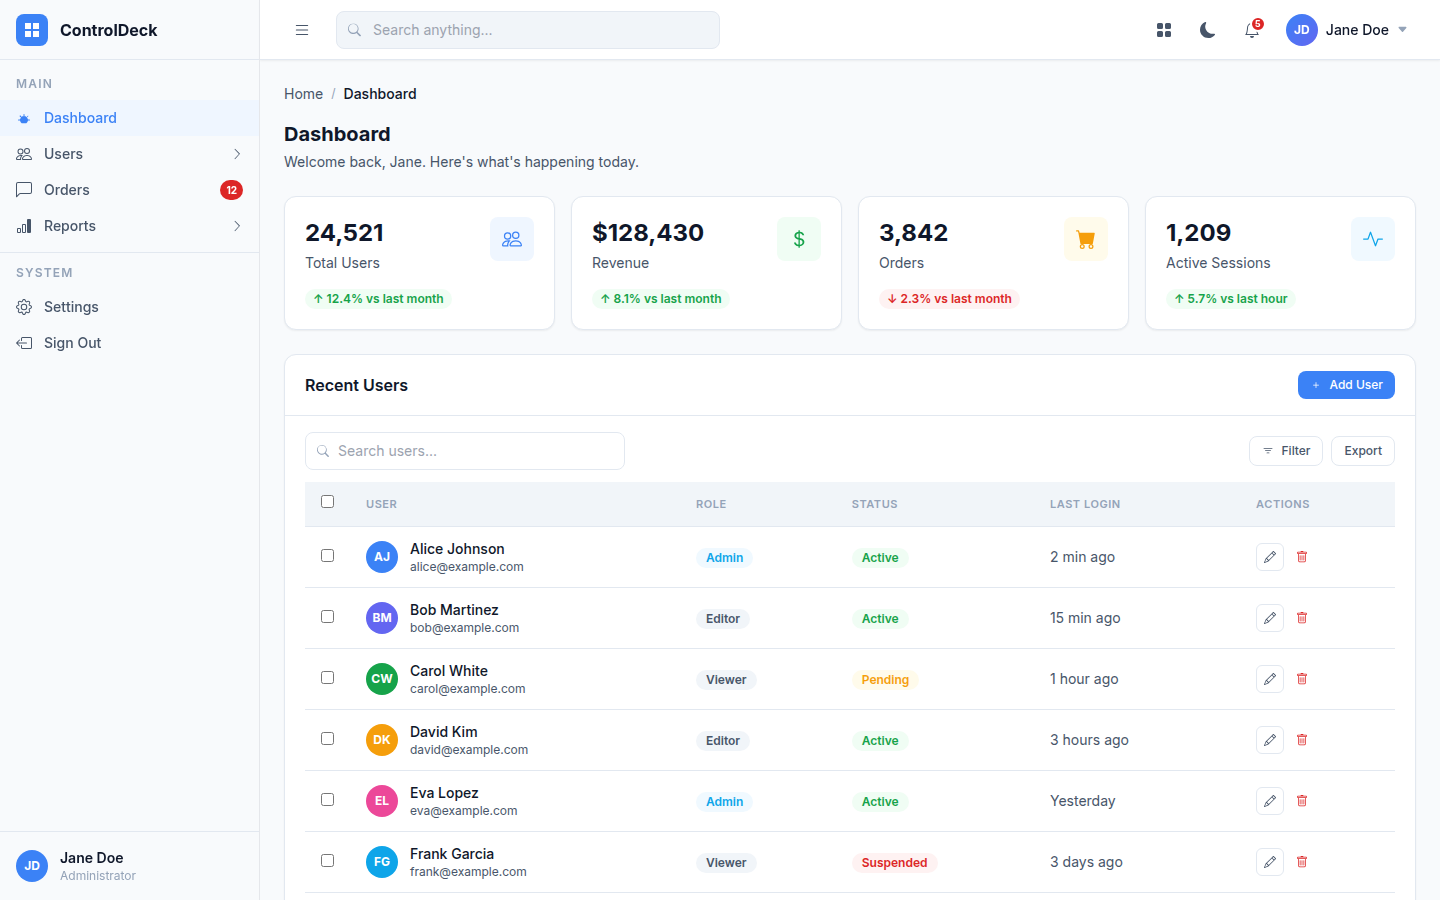
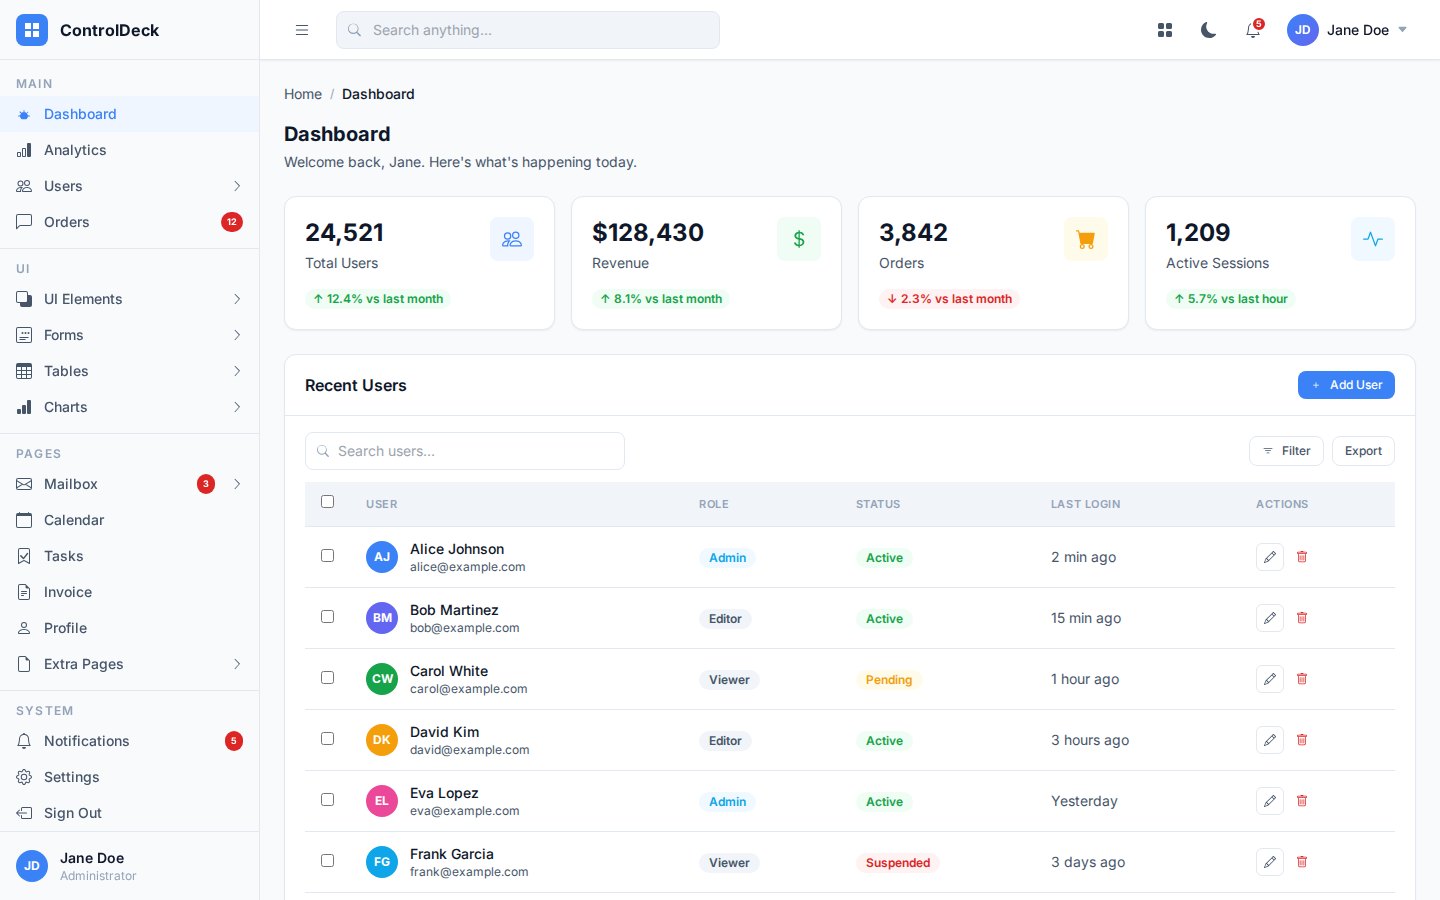
Add screenshots for new pages and update README preview section

diff --git a/README.md b/README.md
@@ -8,7 +8,7 @@ ControlDeck Pro is a production-quality admin panel design system with two compl
 
 ## Preview
 
-Screenshots of all 28 pages in both stacks (1440 × 900). Each row shows Bootstrap 5 on the left and Tailwind + Alpine on the right.
+Screenshots of all pages at 1440 × 900. Bootstrap 5 pages show both columns; Tailwind-only pages show the Tailwind column.
 
 ---
 
@@ -157,6 +157,30 @@ Screenshots of all 28 pages in both stacks (1440 × 900). Each row shows Bootstr
 |---|---|
 | ![Blank – Bootstrap](docs/screenshots/bootstrap/blank.png) | ![Blank – Tailwind](docs/screenshots/tailwind/blank.png) |
 
+#### Settings *(Tailwind only)*
+| Tailwind + Alpine |
+|---|
+| ![Settings – Tailwind](docs/screenshots/tailwind/settings.png) |
+
+#### Notifications *(Tailwind only)*
+| Tailwind + Alpine |
+|---|
+| ![Notifications – Tailwind](docs/screenshots/tailwind/notifications.png) |
+
+#### Tasks / Kanban *(Tailwind only)*
+| Tailwind + Alpine |
+|---|
+| ![Tasks – Tailwind](docs/screenshots/tailwind/tasks.png) |
+
+---
+
+### Top Navigation Layout *(Tailwind only)*
+
+#### Top Navigation
+| Tailwind + Alpine |
+|---|
+| ![Top Navigation – Tailwind](docs/screenshots/tailwind/topnav.png) |
+
 ---
 
 ### Auth
@@ -198,7 +222,7 @@ Screenshots of all 28 pages in both stacks (1440 × 900). Each row shows Bootstr
 - 🌗 **Dark Mode** — toggle on every page, persists via `data-theme` attribute
 - 📐 **Density Switcher** — compact / comfortable / spacious via `data-density`
 - 🗂 **Collapsible Sidebar** — collapses to icon-only rail with smooth transition
-- 🔗 **Multi-level Navigation** — expandable sub-menus with chevron animation
+- 🔗 **Multi-level Navigation** — expandable sub-menus with chevron animation (sidebar + horizontal topbar variant)
 - 📊 **KPI Stat Cards** — icon, value, label, trend badge (up/down)
 - 🗃 **Data Tables** — sortable headers, search filter, status badges, bulk checkbox, pagination
 - 🔔 **Notification Panel** — bell icon with count badge, dropdown list
@@ -246,7 +270,39 @@ ControlDeck-Pro/
 │   ├── 404.html                 # Error 404
 │   ├── 500.html                 # Error 500
 │   └── blank.html               # Blank page
-├── tailwind/                    # Tailwind CSS + Alpine.js stack (28 pages, same set)
+├── tailwind/                    # Tailwind CSS + Alpine.js stack (32 pages)
+│   ├── index.html               # Dashboard v1
+│   ├── dashboard2.html          # Dashboard v2
+│   ├── users.html               # Users management
+│   ├── widgets.html             # Widgets
+│   ├── ui-general.html          # UI General
+│   ├── ui-icons.html            # UI Icons
+│   ├── ui-modals.html           # UI Modals
+│   ├── ui-timeline.html         # UI Timeline
+│   ├── form-general.html        # Forms General
+│   ├── form-advanced.html       # Forms Advanced
+│   ├── form-editors.html        # Form Editors
+│   ├── table-simple.html        # Table Simple
+│   ├── table-datatables.html    # DataTables
+│   ├── chart-line.html          # Chart Line
+│   ├── chart-bar.html           # Chart Bar
+│   ├── chart-pie.html           # Chart Pie
+│   ├── mailbox-inbox.html       # Mailbox Inbox
+│   ├── mailbox-compose.html     # Mailbox Compose
+│   ├── mailbox-read.html        # Mailbox Read
+│   ├── calendar.html            # Calendar
+│   ├── invoice.html             # Invoice
+│   ├── profile.html             # Profile
+│   ├── settings.html            # Settings (tabs: General, Profile, Security, Notifications, API Keys)
+│   ├── notifications.html       # Notification centre (All / Unread filter)
+│   ├── tasks.html               # Tasks Kanban board (4 columns + list view)
+│   ├── topnav.html              # Top Navigation layout variant (horizontal mega-menu)
+│   ├── login.html               # Login
+│   ├── register.html            # Register
+│   ├── lockscreen.html          # Lockscreen
+│   ├── 404.html                 # Error 404
+│   ├── 500.html                 # Error 500
+│   └── blank.html               # Blank page
 ├── docs/
 │   └── screenshots/             # Page screenshots (Bootstrap + Tailwind)
 │       ├── bootstrap/
